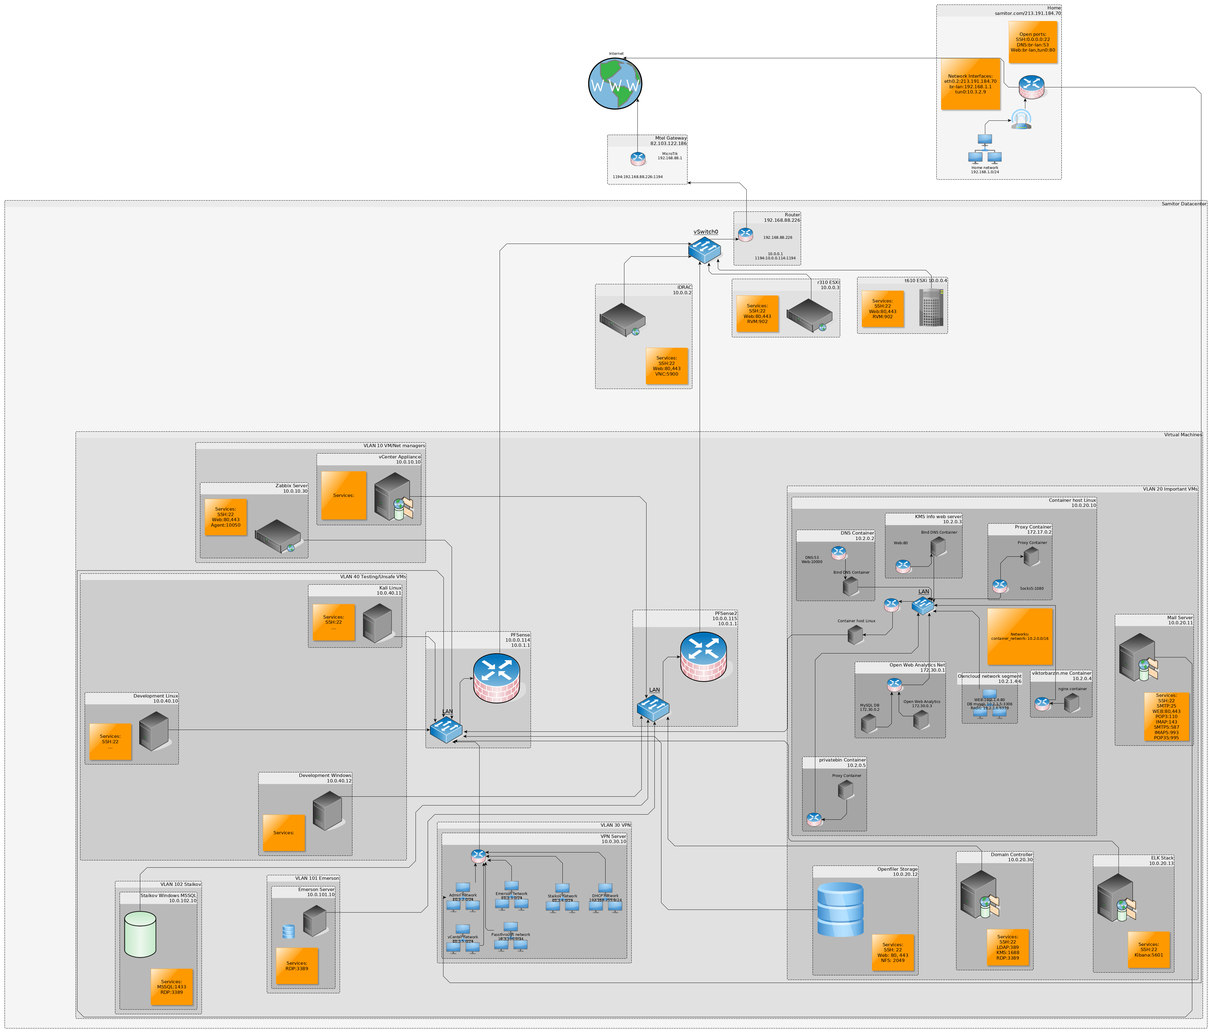
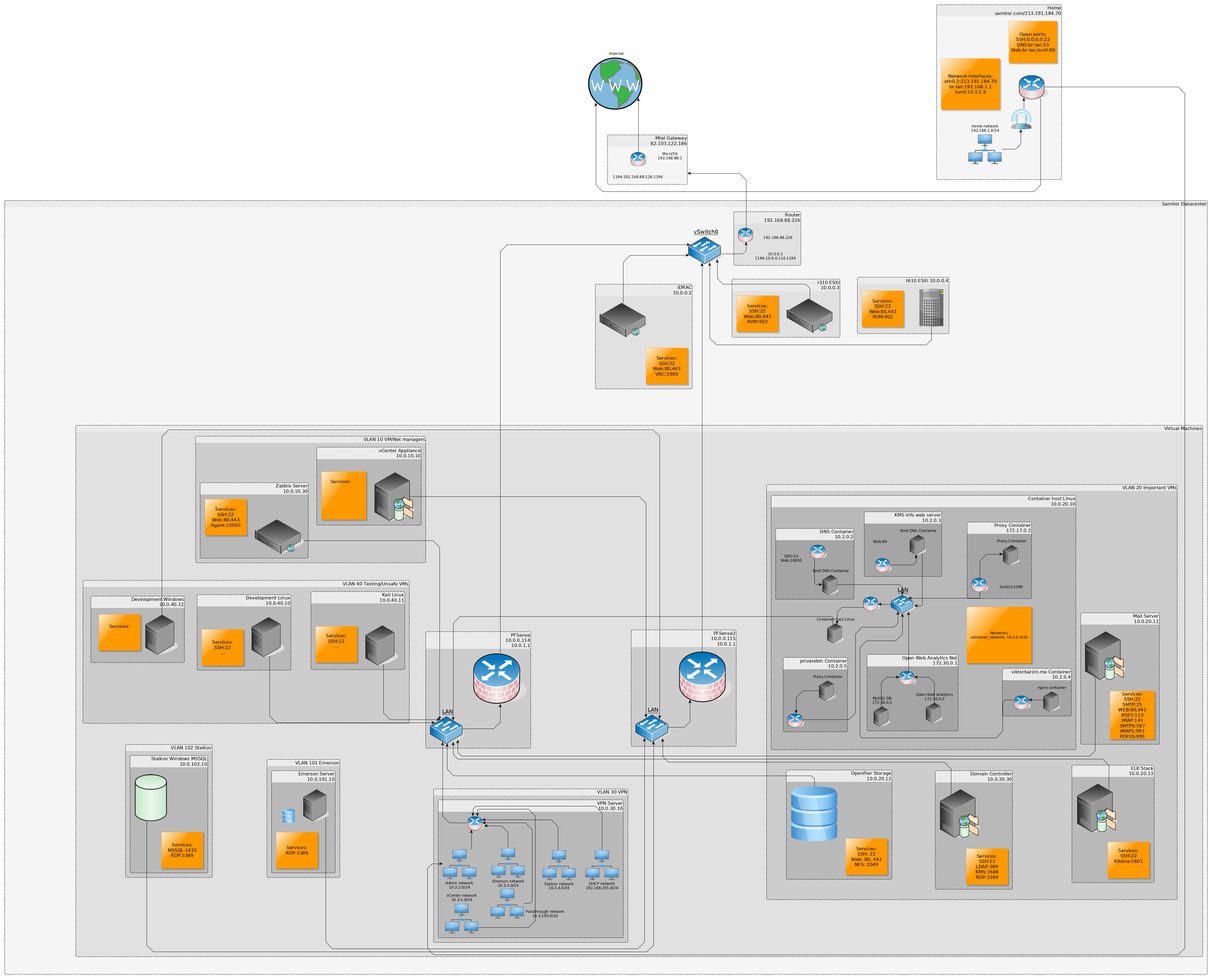
update 03 blog post

diff --git a/public/blog/03-a-walk-down-infrastructure-lane/index.html b/public/blog/03-a-walk-down-infrastructure-lane/index.html
@@ -111,7 +111,9 @@ owa_cmds.push(['trackClicks']);
 <p>As the tittle suggests It&rsquo;s time to go down infrastructure lane. In this blog post
 I&rsquo;ll show my &ldquo;home&rdquo; lab and all the services I&rsquo;ve built so far.</p>
 
-<h4 id="note-i-will-do-my-best-to-keep-this-up-to-date-so-check-this-post-regularly-for-updates-both-to-the-content-and-the-image-at-the-end">NOTE: I will do my best to keep this up to date so check this post regularly for updates, both to the content and the image at the end.</h4>
+<p>I will do my best to keep this up to date so check this post regularly for updates, both to the content and the image at the end.</p>
+
+<h4 id="if-you-are-interested-in-just-the-network-topology-you-can-find-it-here-images-net-topology-png">If you are interested in just the network topology, you can find it <a href="/images/net-topology.png">here</a></h4>
 
 <p>Without further due let&rsquo;s get started.</p>
 
@@ -130,15 +132,14 @@ Site 1 consists of <strong>2 ESXi hosts connected with a simple linksys router</
 <h1 id="logical-topology">Logical topology</h1>
 
 <p>Now the fun part - the <strong>logical layout</strong>. Instead of describing all the virtual machines that I have,
-I reckon it would be <strong>more useful to explain what you&rsquo;ll hit</strong> and what you can <strong>access</strong> once you&rsquo;re on the network.
-<strong>I&rsquo;ll post the full network diagram at the end</strong> so you can see for yourself each of the vms out there.</p>
+I reckon it would be <strong>more useful to explain what you&rsquo;ll hit</strong> and what you can <strong>access</strong> once you&rsquo;re on the network.</p>
 
 <p><strong>Accessing the network can be done only via VPN</strong> - this can be done at <strong><em>vpn.samitor.com</em></strong>  on <strong>port 1194/udp</strong>.
 Once you connect you&rsquo;ll find yourself connected to an <strong>Ubuntu server</strong> vm running the <strong>vpn server only</strong>.</p>
 
 <p>I used to run the vpn service in docker but I recently changed that since <a href="https://stackoverflow.com/questions/39632285/how-to-enable-logging-for-iptables-inside-a-docker-container#answer-39681550">you cannot log container&rsquo;s iptables connections</a> and I need the monitoring feature.</p>
 
-<p>Depending on the VPN certificate that you have, you&rsquo;ll join a <strong>different network</strong> that will give you the correct permissions to access resources on the network.
+<p>Depending on the VPN certificate that you have, you&rsquo;ll join a <strong>different subnet</strong> that will give you the correct permissions to access resources on the network.
 The IP that you&rsquo;ll get is <strong>not</strong> NAT-ed so I can <strong>filter and track</strong> the outbound connections <strong>based on client IP</strong> at the nearest firewall which happens to be the <a href="https://www.pfsense.org/"><strong>pfSense</strong></a> appliance at <em>10.0.30.1</em>. This is what we know so far:</p>
 
 <p><img src="/images/03-A-walk-down-infrastructure-lane-bc1a97ab.png" alt="" /></p>
@@ -158,7 +159,7 @@ The IP that you&rsquo;ll get is <strong>not</strong> NAT-ed so I can <strong>fil
 </ul>
 
 <p>If any of the clients on my vpn want access to anything on the internal network it will be <strong>explicitly allowed</strong>
-and added as a rule in here (look the rule that allows clients on <em>10.3.3.0/24</em> access to <em>10.0.101.10</em> host).</p>
+and added as a whitelist rule in here (look the rule that allows clients on <em>10.3.3.0/24</em> access to <em>10.0.101.10</em> host).</p>
 
 <p>The <em>10.0.101.10</em> host is a simple Windows Server VM that is given to a 3rd party for testing purposes.</p>
 
@@ -182,13 +183,15 @@ and added as a rule in here (look the rule that allows clients on <em>10.3.3.0/2
 <li><strong>Openfiler storage vm</strong> - this is supposed to be some sort of a global datastore and everything should store their data in here but alas I&rsquo;m currently using is just for NFS datastores for the ESXi hosts.</li>
 </ul>
 
-<h3 id="the-container-host-currently-runs-the-following-containers">The <em>Container Host</em> currently runs the following containers:</h3>
+<h3 id="the-container-host-changes-the-most-frequently-and-it-currently-runs-the-following-containers">The <em>Container Host</em> changes the most frequently and it currently runs the following containers:</h3>
 
 <ul>
 <li><a href="https://hub.docker.com/_/nginx/"><strong>Nginx web server</strong></a> that <strong>hosts the website you&rsquo;re watching</strong> right now.</li>
 <li>A <a href="https://hub.docker.com/r/serjs/go-socks5-proxy/"><strong>socks5 proxy</strong></a> which I give access to people that need proxying their traffic via a bulgarian ip and do not need to be issued a vpn certificate.</li>
 <li>A very important <a href="https://hub.docker.com/r/sameersbn/bind/"><strong>DNS container</strong></a> because noone likes remembering ip addresses anyway. It currently <strong>has more than 20 A records just for my services</strong>.</li>
 <li><a href="https://hub.docker.com/_/nginx/"><strong>Nginx web server</strong></a> that hosts <strong>my notes on how to activate windows machines</strong> that I ocassionally give out access to friends</li>
+<li>A <a href="https://hub.docker.com/r/jgeusebroek/privatebin/">privatebin</a> instance for the times when I need a private pastebin.</li>
+<li>An <a href="https://github.com/vladk1m0/docker-owa">Open Web analytics</a> container that keeps track of user activity on my website - it will soon be replaced by <a href="https://goaccess.io/">goaccess</a> which I see as way simpler, easier to setup and less hassle to maintain.</li>
 </ul>
 
 <p>There used to be an owncloud service but I&rsquo;ve removed that since it wasn&rsquo;t used.</p>
@@ -200,15 +203,13 @@ and added as a rule in here (look the rule that allows clients on <em>10.3.3.0/2
 <h3 id="elk-stack">ELK Stack</h3>
 
 <p>I have a dedicated vm for <strong>ELK</strong> - this is the Ubuntu server at <em>10.0.20.13</em>.
-It currently collects only <strong>the logs from the pfSense appliance</strong>. Here is how that looks like:</p>
+It currently collects the logs from the <em>pfSense appliance</em>, the <em>Container host</em> and the <em>VPN Server vm</em>. Here is how that looks like:</p>
 
 <p><img src="/images/03-A-walk-down-infrastructure-lane-e69a61a1.png" alt="" /></p>
 
-<p>Recently, I had some adventures debugging grok files. I&rsquo;ll soon be setting up <strong>more monitoring via <a href="https://www.elastic.co/products/beats">beats</a></strong>.</p>
-
 <h3 id="the-mail-server-is-where-my-mailing-service-runs">The <em>Mail server</em> is where my mailing service runs.</h3>
 
-<p>It is a <a href="https://roundcube.net/">Roundcube</a> installation with <a href="http://www.postfix.org/">postfix</a> running as mail transfer agent.
+<p>It is a <a href="https://roundcube.net/">Roundcube</a> installation with <a href="http://www.postfix.org/">postfix</a> running as mail transfer agent and <a href="https://www.dovecot.org/">Dovecot</a> as a IMAP and POP3 server.
 I don&rsquo;t use the Roundcube web ui to access my mail - I use KDE&rsquo;s powerful <a href="https://www.kde.org/applications/internet/kmail/">kmail</a> client.</p>
 
 <h5 id="protip-after-couple-of-reinstalls-i-figured-out-that-the-installation-can-be-automated-with-iredmail-https-www-iredmail-org">ProTip: After couple of reinstalls I figured out that the installation can be automated with <a href="https://www.iredmail.org/">iredmail</a></h5>
@@ -229,7 +230,7 @@ Here is a screenshot of the home screen:</p>
 
 <p>So this concludes VLAN 20 walkthrough</p>
 
-<p><img src="/images/03-A-walk-down-infrastructure-lane-c1343164.png" alt="" /></p>
+<p><img src="/images/03-A-walk-down-infrastructure-lane-25ca6ac3.png" alt="" /></p>
 
 <h3 id="last-but-not-least-is-vlan-10-which-is-the-infrastructure-manager-vlan">Last but not least is VLAN 10 which is the infrastructure manager vlan.</h3>
 
@@ -254,7 +255,7 @@ Here is what zabbix looks like:</p>
 <p>Well the catch is that at my main site I <strong>do not own and manage the public IP address</strong>.
 The <strong>only open port I have is 1194</strong> and this is quite insufficient for my needs.</p>
 
-<h4 id="so-how-do-i-run-a-mail-server-2-websites-and-what-not-with-only-1-open-port">So how do I run a mail server, 2 websites and what not with only 1 open port?</h4>
+<h4 id="so-how-do-i-run-a-mail-server-multiple-websites-and-what-not-with-only-1-open-port">So how do I run a mail server, multiple websites and what not with only 1 open port?</h4>
 
 <p>Remember the router at home? It is running <a href="https://openwrt.org/">OpenWrt</a> which is a sort of distro for routers.
 Maybe <strong>busybox on steroids</strong> is more accurate.</p>
@@ -262,22 +263,62 @@ Maybe <strong>busybox on steroids</strong> is more accurate.</p>
 <p>Anyway, it <strong>has a VPN certificate that connects straight into the main site</strong>.
 <strong>I&rsquo;ve forwarded ports on my router at home to services in the vpn network</strong> linking the 2 networks.</p>
 
-<p>This is how the public site of my network looks like:</p>
+<p>This is how the public side of my network looks like:</p>
 
-<p><img src="/images/03-A-walk-down-infrastructure-lane-a194c284.png" alt="" /></p>
+<p><img src="/images/03-A-walk-down-infrastructure-lane-92ee6897.png" alt="" /></p>
 
 <p>So each time you are visiting this site, or sending me mail at <a href="mailto:viktorbarzin@samitor.com">viktorbarzin@samitor.com</a> <strong>you are going through the router at home which is routing traffic via the vpn eventually reaching its target service</strong>.</p>
 
 <p>I&rsquo;ve also bridged the <strong>wifi network at home to route the <em>10.0.0.0/8</em> network via the vpn interface</strong> so when I&rsquo;m at home I don&rsquo;t need to connect to the vpn.</p>
 
-<h4 id="you-can-see-the-full-network-topology-here-images-net-topology-png">You can see the full network topology <a href="/images/net-topology.png">here</a></h4>
+<h1 id="the-ugly-part">The ugly part</h1>
 
-<h4 id="note-this-image-will-be-updated-from-time-to-time-the-post-might-not">NOTE: this image will be updated from time to time - the post might not.</h4>
+<p>Now that all seems pretty and nice, however, there is a <em>small</em> caveat. I showed you the logical part of the things, but I didn&rsquo;t show you <strong>exactly how that translates to the physical topology</strong>.</p>
+
+<p>I have <strong>2 ESXi hosts</strong> controlled by a <strong>vCenter appliance</strong>.</p>
+
+<p>If you have a <strong>single host</strong>, you <strong>can virtualize everything</strong> and do whatever you want and lie the vms as much as you want about the physical topology beneath.
+However, <strong>once you have to step outside</strong> in the real world, <strong>things change dramatically</strong>.
+The main issue is that <strong>each of the hosts has its own TCP/IP networking stack</strong> therefore routing and iterface subnets need to be configured again for the second host as well and more importantly, <strong>each of the hosts needs to know where everything else is</strong>.</p>
+
+<p>I <strong>hoped that vCenter will manage this in some &ldquo;magical&rdquo; way but alas it wasn&rsquo;t the case</strong>.
+I wanted eventually <strong>to move a VM between hosts without worrying about networking</strong>.</p>
+
+<p>I looked into <a href="https://www.vmware.com/uk/products/vsphere/distributed-switch.html">Distirbuted switches</a>,
+<a href="https://en.wikipedia.org/wiki/Private_VLAN">Private VLANs</a> and what not. Unfortunately neither did the job for me
+and eventually <strong>I had to setup a copy instance of the PfSense on the second host</strong>.</p>
+
+<p><strong>I was really reluctant to do that</strong> since changing any configs in one of the instances, I had to replicate them in the second one so that everything is consistent.
+But oh well, there it is</p>
+
+<p><img src="/images/03-A-walk-down-infrastructure-lane-ec1a5d94.png" alt="" /></p>
+
+<p>Now if I want to move a VM to the other host <strong>I also need to change the according routes to it</strong>.</p>
+
+<p>Firstly, I have to add the routing information in the first pfSense instance. Here is what I currently route:</p>
+
+<p><img src="/images/03-A-walk-down-infrastructure-lane-92686158.png" alt="" /></p>
+
+<p>All of the routes that use the <em>t610 10.0.0.115</em> gateway are hosted on my <strong>second ESXi host</strong>.</p>
+
+<p>For some reason, when matching any of these, <strong>it sends it first to the gateway at <em>10.0.0.1</em> which then has to make the same routing decision</strong>. This is how it looks on my linksys router:</p>
+
+<p><img src="/images/03-A-walk-down-infrastructure-lane-c9873515.png" alt="" /></p>
+
+<p><strong>It also routes the other way around</strong> - VMs on my second host that need to access VMs on my first hosts also need to know where to find them - <strong>this is done both at the linksys level as well as at the second pfSense instance</strong>.</p>
+
+<p>By default it routes the <strong>entire <code>10.0.0.0/16</code> subnet via the pfSense at <code>10.0.0.114</code></strong></p>
+
+<p>I&rsquo;ve made <strong>identical vSwitches on both of my ESXi hosts</strong>, so moving a <strong>VM is rather easy</strong>&hellip; just add the appropriate routings and it all works.</p>
 
 <h1 id="conclusion">Conclusion</h1>
 
-<p>I hope this gives a general idea of what my lab setup looks like. I&rsquo;ve spent an year or so building it.
+<p>I hope this gives a general idea of what my lab setup looks like. I&rsquo;ve spent an year or so to build it.
 In the near future I&rsquo;d like to setup more monitoring via <a href="https://www.elastic.co/products/beats">ELK beats</a> and also setup a <a href="https://kubernetes.io/">Kubernetes cluster</a>.</p>
+
+<h4 id="you-can-see-the-full-network-topology-here-images-net-topology-png">You can see the full network topology <a href="/images/net-topology.png">here</a></h4>
+
+<h4 id="note-this-image-will-be-updated-from-time-to-time">NOTE: this image will be updated from time to time.</h4>
 
             </div>
             

diff --git a/public/blog/index.html b/public/blog/index.html
@@ -147,8 +147,8 @@ The issue If you recall my network setup had a little issue - I do not own the p
 							<h4 class="post-date">Sep 28, 2018</h4>
 						</div>
 						<div class="post-summary"><p>Intro As the tittle suggests It&rsquo;s time to go down infrastructure lane. In this blog post I&rsquo;ll show my &ldquo;home&rdquo; lab and all the services I&rsquo;ve built so far.
-NOTE: I will do my best to keep this up to date so check this post regularly for updates, both to the content and the image at the end. Without further due let&rsquo;s get started.
-Physical topology So the physical topology is rather simple.</p></div>
+I will do my best to keep this up to date so check this post regularly for updates, both to the content and the image at the end.
+If you are interested in just the network topology, you can find it here Without further due let&rsquo;s get started.</p></div>
 						<div class="post-list-footer text-center">
 							<a href="https://viktorbarzin.me/blog/03-a-walk-down-infrastructure-lane/">Read More</a>
 						</div>

diff --git a/content/blog/03-A-walk-down-infrastructure-lane.md b/content/blog/03-A-walk-down-infrastructure-lane.md
@@ -11,7 +11,8 @@ sitemap:
 As the tittle suggests It's time to go down infrastructure lane. In this blog post
 I'll show my "home" lab and all the services I've built so far.
 
-#### NOTE: I will do my best to keep this up to date so check this post regularly for updates, both to the content and the image at the end.
+I will do my best to keep this up to date so check this post regularly for updates, both to the content and the image at the end.
+#### If you are interested in just the network topology, you can find it [here](/images/net-topology.png)
 
 Without further due let's get started.
 
@@ -31,14 +32,13 @@ Site 2 consists of just the router at home but you'll see later why it's importa
 
 Now the fun part - the **logical layout**. Instead of describing all the virtual machines that I have,
 I reckon it would be **more useful to explain what you'll hit** and what you can **access** once you're on the network.
-**I'll post the full network diagram at the end** so you can see for yourself each of the vms out there.
 
 **Accessing the network can be done only via VPN** - this can be done at ***vpn.samitor.com***  on **port 1194/udp**.
 Once you connect you'll find yourself connected to an **Ubuntu server** vm running the **vpn server only**.
 
 I used to run the vpn service in docker but I recently changed that since [you cannot log container's iptables connections](https://stackoverflow.com/questions/39632285/how-to-enable-logging-for-iptables-inside-a-docker-container#answer-39681550) and I need the monitoring feature.
 
-Depending on the VPN certificate that you have, you'll join a **different network** that will give you the correct permissions to access resources on the network.
+Depending on the VPN certificate that you have, you'll join a **different subnet** that will give you the correct permissions to access resources on the network.
 The IP that you'll get is **not** NAT-ed so I can **filter and track** the outbound connections **based on client IP** at the nearest firewall which happens to be the [**pfSense**](https://www.pfsense.org/) appliance at *10.0.30.1*. This is what we know so far:
 
 ![](/images/03-A-walk-down-infrastructure-lane-bc1a97ab.png)
@@ -56,7 +56,7 @@ So in simple words what the above configurations shows is:
 - The *10.3.2.1* client can access anything (that's me :P)
 
 If any of the clients on my vpn want access to anything on the internal network it will be **explicitly allowed**
-and added as a rule in here (look the rule that allows clients on *10.3.3.0/24* access to *10.0.101.10* host).
+and added as a whitelist rule in here (look the rule that allows clients on *10.3.3.0/24* access to *10.0.101.10* host).
 
 The *10.0.101.10* host is a simple Windows Server VM that is given to a 3rd party for testing purposes.
 
@@ -77,12 +77,14 @@ The following hosts are present in this VLAN:
 - **Windows Domain Controller** - centrally manages my windows hosts' authentication and authorization
 - **Openfiler storage vm** - this is supposed to be some sort of a global datastore and everything should store their data in here but alas I'm currently using is just for NFS datastores for the ESXi hosts.
 
-### The *Container Host* currently runs the following containers:
+### The *Container Host* changes the most frequently and it currently runs the following containers:
 
 - [**Nginx web server**](https://hub.docker.com/_/nginx/) that **hosts the website you're watching** right now.
 - A [**socks5 proxy**](https://hub.docker.com/r/serjs/go-socks5-proxy/) which I give access to people that need proxying their traffic via a bulgarian ip and do not need to be issued a vpn certificate.
 - A very important [**DNS container**](https://hub.docker.com/r/sameersbn/bind/) because noone likes remembering ip addresses anyway. It currently **has more than 20 A records just for my services**.
 - [**Nginx web server**](https://hub.docker.com/_/nginx/) that hosts **my notes on how to activate windows machines** that I ocassionally give out access to friends
+- A [privatebin](https://hub.docker.com/r/jgeusebroek/privatebin/) instance for the times when I need a private pastebin.
+- An [Open Web analytics](https://github.com/vladk1m0/docker-owa) container that keeps track of user activity on my website - it will soon be replaced by [goaccess](https://goaccess.io/) which I see as way simpler, easier to setup and less hassle to maintain.
 
 There used to be an owncloud service but I've removed that since it wasn't used.
 
@@ -92,13 +94,12 @@ There used to be an owncloud service but I've removed that since it wasn't used.
 
 ### ELK Stack
 I have a dedicated vm for **ELK** - this is the Ubuntu server at *10.0.20.13*.
-It currently collects only **the logs from the pfSense appliance**. Here is how that looks like:
+It currently collects the logs from the *pfSense appliance*, the *Container host* and the *VPN Server vm*. Here is how that looks like:
 
 ![](/images/03-A-walk-down-infrastructure-lane-e69a61a1.png)
 
-Recently, I had some adventures debugging grok files. I'll soon be setting up **more monitoring via [beats](https://www.elastic.co/products/beats)**.
 ### The *Mail server* is where my mailing service runs.
-It is a [Roundcube](https://roundcube.net/) installation with [postfix](http://www.postfix.org/) running as mail transfer agent.
+It is a [Roundcube](https://roundcube.net/) installation with [postfix](http://www.postfix.org/) running as mail transfer agent and [Dovecot](https://www.dovecot.org/) as a IMAP and POP3 server.
 I don't use the Roundcube web ui to access my mail - I use KDE's powerful [kmail](https://www.kde.org/applications/internet/kmail/) client.
 
 ##### ProTip: After couple of reinstalls I figured out that the installation can be automated with [iredmail](https://www.iredmail.org/)
@@ -117,7 +118,7 @@ Here is a screenshot of the home screen:
 
 So this concludes VLAN 20 walkthrough
 
-![](/images/03-A-walk-down-infrastructure-lane-c1343164.png)
+![](/images/03-A-walk-down-infrastructure-lane-25ca6ac3.png)
 
 ### Last but not least is VLAN 10 which is the infrastructure manager vlan.
 This is where my [vCenter Server Appliance](https://www.vmware.com/products/vcenter-server.html) lives.
@@ -141,7 +142,7 @@ Now in the beginning I said I have 2 sites - one that hosts my ESXi hosts and an
 Well the catch is that at my main site I **do not own and manage the public IP address**.
 The **only open port I have is 1194** and this is quite insufficient for my needs.
 
-#### So how do I run a mail server, 2 websites and what not with only 1 open port?
+#### So how do I run a mail server, multiple websites and what not with only 1 open port?
 
 Remember the router at home? It is running [OpenWrt](https://openwrt.org/) which is a sort of distro for routers.
 Maybe **busybox on steroids** is more accurate.
@@ -149,18 +150,59 @@ Maybe **busybox on steroids** is more accurate.
 Anyway, it **has a VPN certificate that connects straight into the main site**.
 **I've forwarded ports on my router at home to services in the vpn network** linking the 2 networks.
 
-This is how the public site of my network looks like:
+This is how the public side of my network looks like:
 
-![](/images/03-A-walk-down-infrastructure-lane-a194c284.png)
+![](/images/03-A-walk-down-infrastructure-lane-92ee6897.png)
 
 So each time you are visiting this site, or sending me mail at [viktorbarzin@samitor.com](mailto:viktorbarzin@samitor.com) **you are going through the router at home which is routing traffic via the vpn eventually reaching its target service**.
 
 I've also bridged the **wifi network at home to route the *10.0.0.0/8* network via the vpn interface** so when I'm at home I don't need to connect to the vpn.
 
-#### You can see the full network topology [here](/images/net-topology.png)
-#### NOTE: this image will be updated from time to time - the post might not.
+# The ugly part
+
+Now that all seems pretty and nice, however, there is a *small* caveat. I showed you the logical part of the things, but I didn't show you **exactly how that translates to the physical topology**.
+
+I have **2 ESXi hosts** controlled by a **vCenter appliance**.
+
+If you have a **single host**, you **can virtualize everything** and do whatever you want and lie the vms as much as you want about the physical topology beneath.
+However, **once you have to step outside** in the real world, **things change dramatically**.
+The main issue is that **each of the hosts has its own TCP/IP networking stack** therefore routing and iterface subnets need to be configured again for the second host as well and more importantly, **each of the hosts needs to know where everything else is**.
+
+I **hoped that vCenter will manage this in some "magical" way but alas it wasn't the case**.
+I wanted eventually **to move a VM between hosts without worrying about networking**.
+
+I looked into [Distirbuted switches](https://www.vmware.com/uk/products/vsphere/distributed-switch.html),
+[Private VLANs](https://en.wikipedia.org/wiki/Private_VLAN) and what not. Unfortunately neither did the job for me
+and eventually **I had to setup a copy instance of the PfSense on the second host**.
+
+**I was really reluctant to do that** since changing any configs in one of the instances, I had to replicate them in the second one so that everything is consistent.
+But oh well, there it is
+
+![](/images/03-A-walk-down-infrastructure-lane-ec1a5d94.png)
+
+Now if I want to move a VM to the other host **I also need to change the according routes to it**.
+
+Firstly, I have to add the routing information in the first pfSense instance. Here is what I currently route:
+
+![](/images/03-A-walk-down-infrastructure-lane-92686158.png)
+
+All of the routes that use the *t610 10.0.0.115* gateway are hosted on my **second ESXi host**.
+
+For some reason, when matching any of these, **it sends it first to the gateway at *10.0.0.1* which then has to make the same routing decision**. This is how it looks on my linksys router:
+
+![](/images/03-A-walk-down-infrastructure-lane-c9873515.png)
+
+**It also routes the other way around** - VMs on my second host that need to access VMs on my first hosts also need to know where to find them - **this is done both at the linksys level as well as at the second pfSense instance**.
+
+By default it routes the **entire `10.0.0.0/16` subnet via the pfSense at `10.0.0.114`**
+
+I've made **identical vSwitches on both of my ESXi hosts**, so moving a **VM is rather easy**... just add the appropriate routings and it all works.
+
 
 # Conclusion
 
-I hope this gives a general idea of what my lab setup looks like. I've spent an year or so building it.
+I hope this gives a general idea of what my lab setup looks like. I've spent an year or so to build it.
 In the near future I'd like to setup more monitoring via [ELK beats](https://www.elastic.co/products/beats) and also setup a [Kubernetes cluster](https://kubernetes.io/).
+
+#### You can see the full network topology [here](/images/net-topology.png)
+#### NOTE: this image will be updated from time to time.
